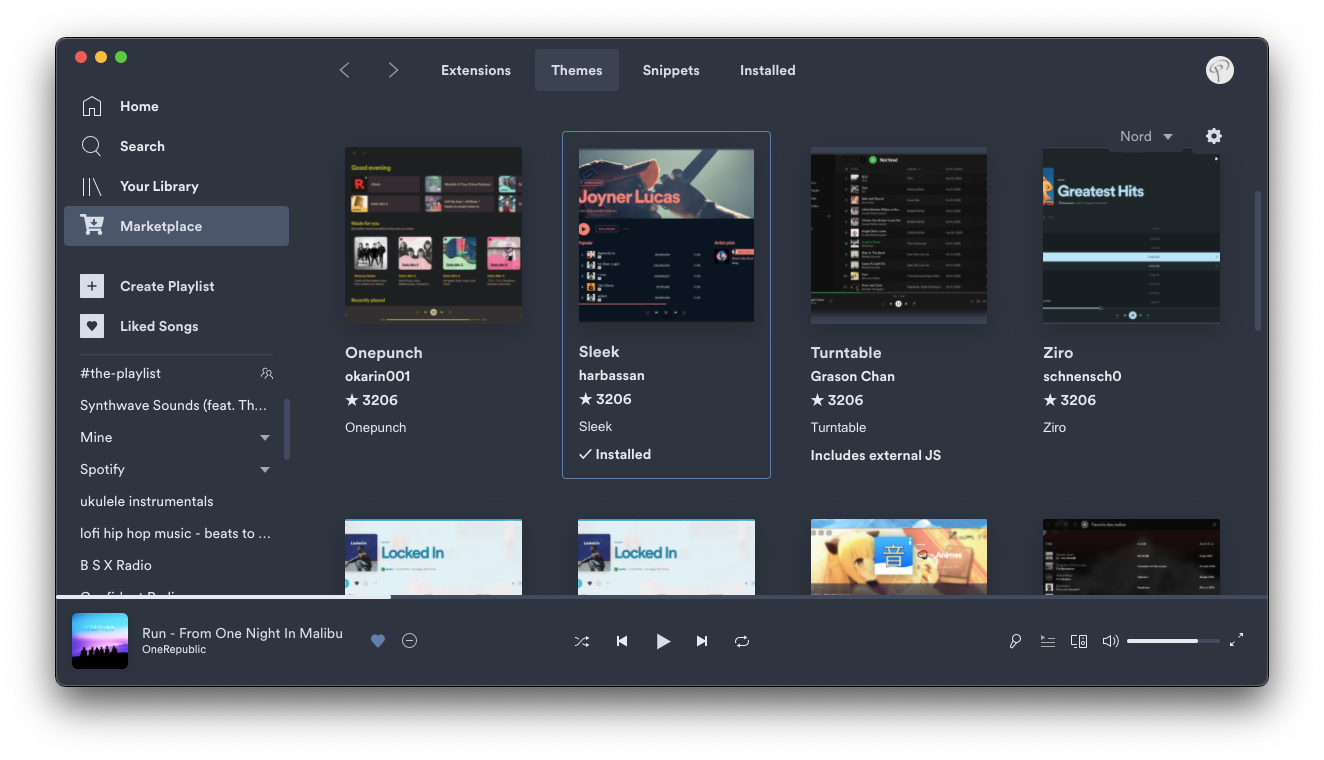
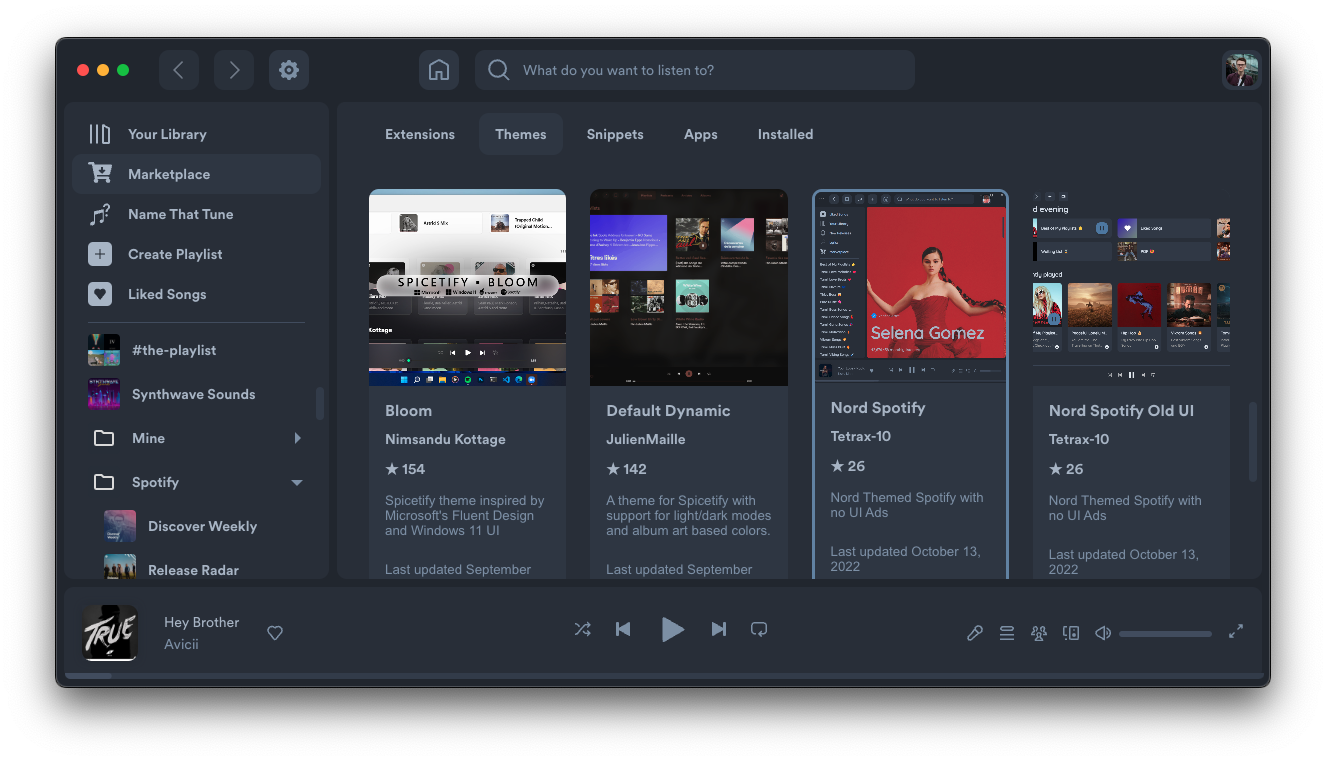
feat: add nord theme, update slider screenshots (#62)

diff --git a/src/components/SwiperCarousel.tsx b/src/components/SwiperCarousel.tsx
@@ -8,13 +8,23 @@ import 'swiper/css/navigation';
 import 'swiper/css/scrollbar';
 import 'swiper/css/effect-coverflow';
 
+// NOTE: These screenshots were generated with a window of size 1214x649.
+// (You can see the size when you resize if you have the dev tools open)
+// The shadow + blur is from macOS's screenshot tool.
 const data = [
+  // Sleek (Elementary) - Homepage
   { cover: require('@site/static/images/homepage-carousel/1.png').default, title: 'Preview 1' },
+  // Sleek (Wealthy) - Homepage
   { cover: require('@site/static/images/homepage-carousel/2.png').default, title: 'Preview 2' },
+  // Nord theme, new UI - Homepage
   { cover: require('@site/static/images/homepage-carousel/3.png').default, title: 'Preview 3' },
+  // Comfy - Homepage
   { cover: require('@site/static/images/homepage-carousel/4.png').default, title: 'Preview 4' },
+  // Dribbblish - Homepage
   { cover: require('@site/static/images/homepage-carousel/5.png').default, title: 'Preview 5' },
+  // Sleek (Elementary) - Marketplace extensions
   { cover: require('@site/static/images/homepage-carousel/6.png').default, title: 'Preview 6' },
+  // Nord theme, new UI - Marketplace themes
   { cover: require('@site/static/images/homepage-carousel/7.png').default, title: 'Preview 7' },
 ];
 

diff --git a/docs/advanced-usage/themes.md b/docs/advanced-usage/themes.md
@@ -13,4 +13,5 @@ For this reason, the theming heroes of the Spicetify community have created a hu
 2. [NYRI4/Comfy-spicetify](https://github.com/NYRI4/Comfy-spicetify)
 3. [williamckha/spicetify-fluent](https://github.com/williamckha/spicetify-fluent)
 4. [JulienMaille/dribbblish-dynamic-theme](https://github.com/JulienMaille/dribbblish-dynamic-theme)
-5. Insert your theme here!
+5. [Tetrax-10/Nord-Spotify](https://github.com/Tetrax-10/Nord-Spotify)
+6. Insert your theme here!
